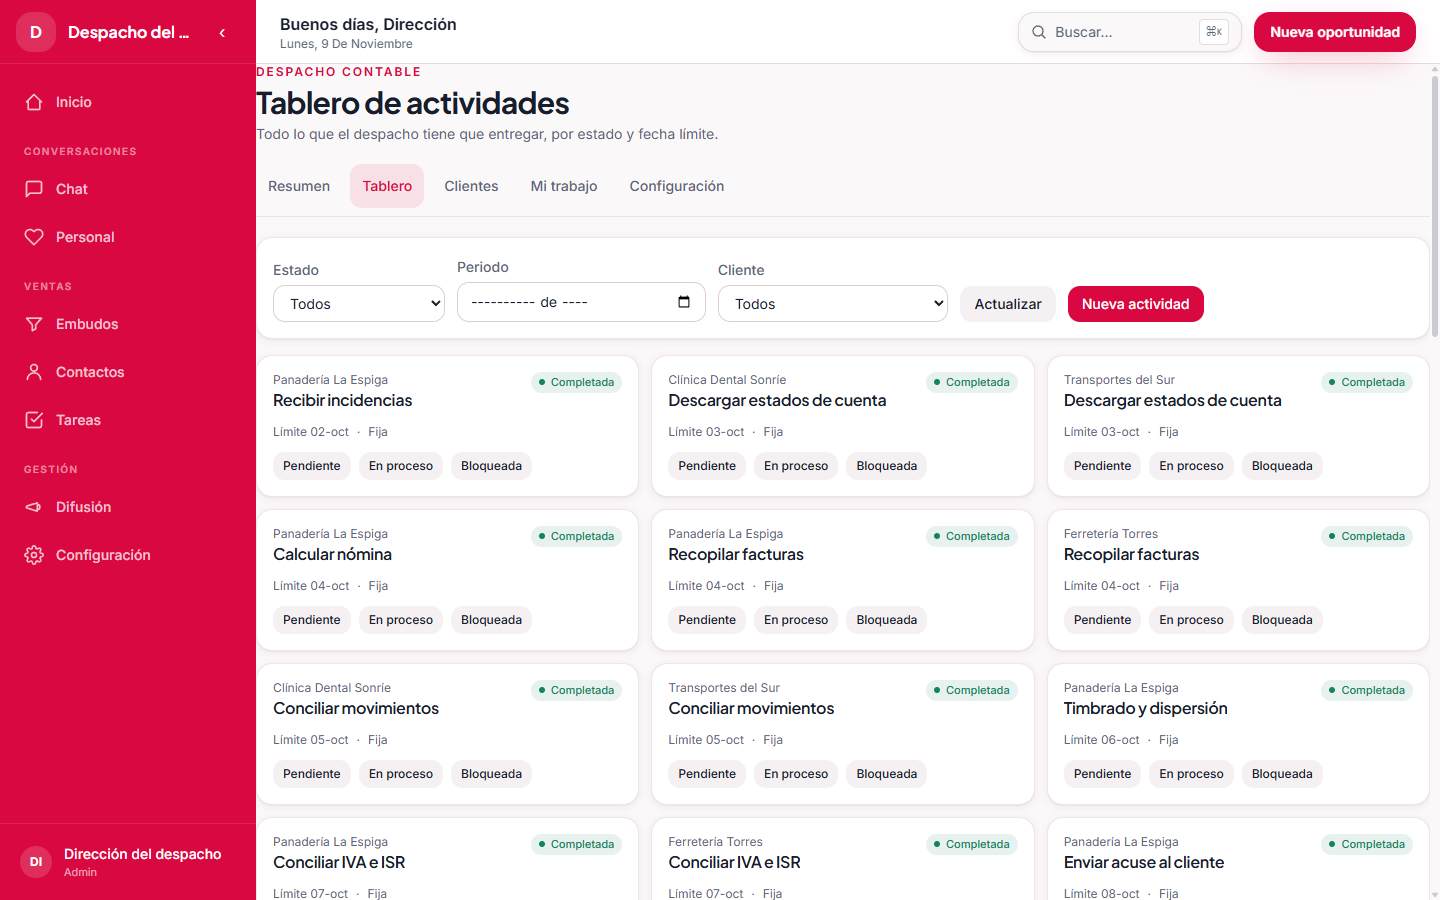
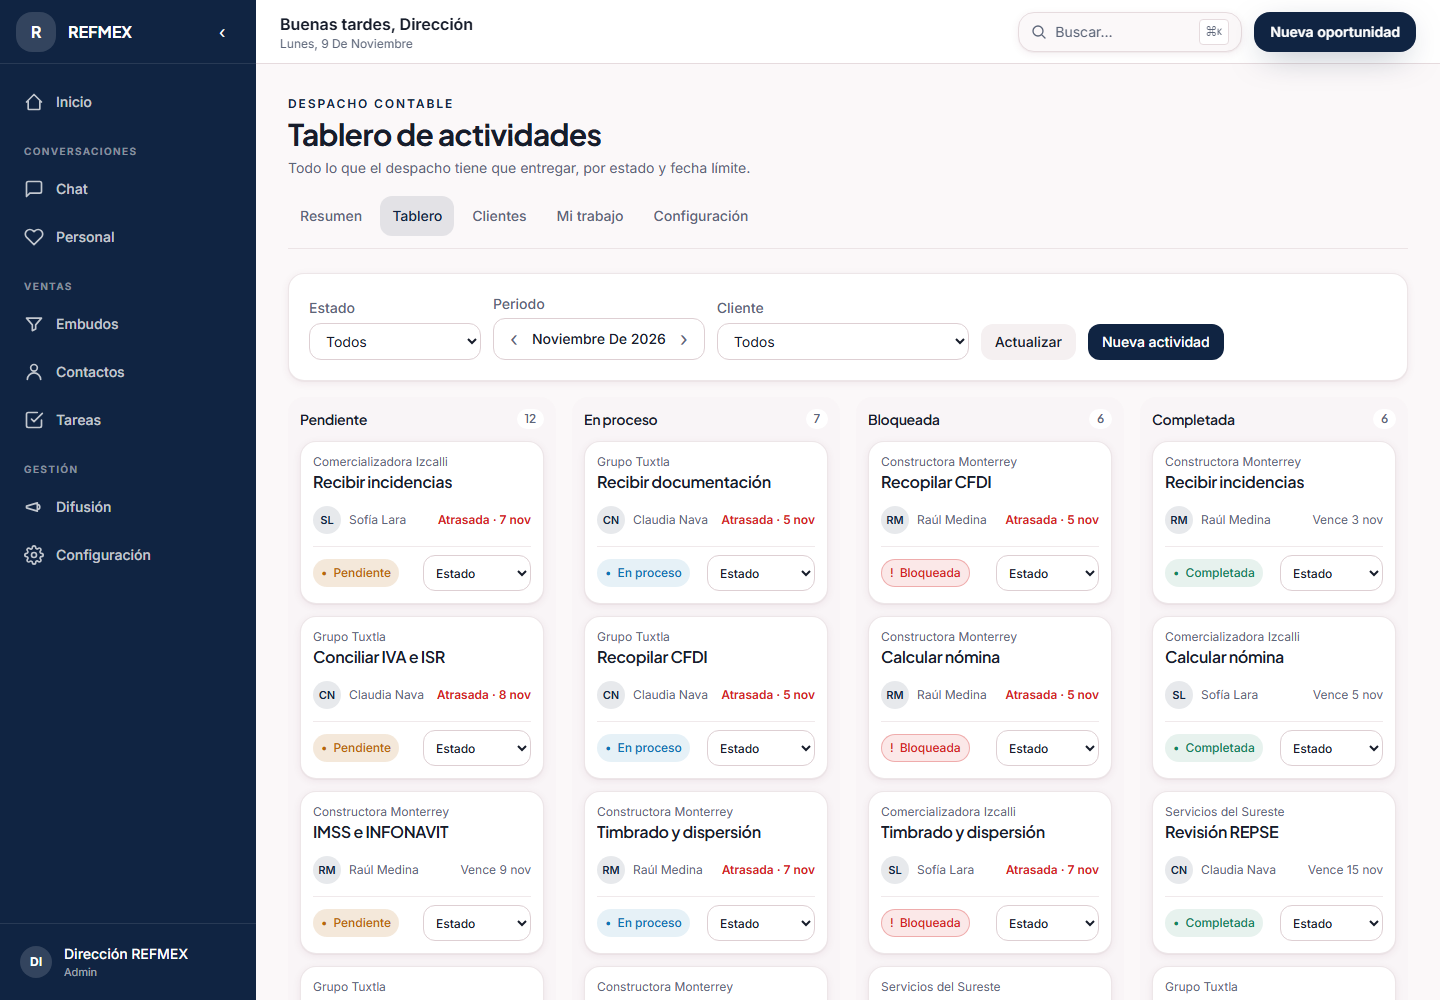
style(despacho,contenido): columna Bloqueada, horas locales en seed y capturas

diff --git a/web/src/components/despacho/DespachoActividades.tsx b/web/src/components/despacho/DespachoActividades.tsx
@@ -20,7 +20,7 @@ const ETIQUETAS: Record<string, string> = {
 const COLUMNAS = [
   { estado: "pendiente", titulo: "Pendiente" },
   { estado: "en_proceso", titulo: "En proceso" },
-  { estado: "bloqueada", titulo: "En revisión" },
+  { estado: "bloqueada", titulo: "Bloqueada" },
   { estado: "completada", titulo: "Completada" },
 ];
 
@@ -159,14 +159,13 @@ export function DespachoActividades({
                     <p className="truncate text-xs text-muted-foreground">{actividad.cliente.contacto.empresa ?? actividad.cliente.contacto.nombre}</p>
                     <h3 className="truncate font-semibold text-foreground">{actividad.titulo}</h3>
                   </div>
-                  {actividad.estado === "bloqueada" && <Badge tono="warning" className="min-h-7 px-2 text-xs">Bloqueada</Badge>}
                 </div>
                 <div className="flex items-center justify-between gap-2 text-xs text-muted-foreground">
                   <span className="flex min-w-0 items-center gap-2"><span className="grid h-7 w-7 shrink-0 place-items-center rounded-full bg-primary/10 text-[11px] font-semibold text-primary" title={responsable} aria-label={`Responsable: ${responsable}`}>{avatar(responsable)}</span><span className="truncate">{responsable}</span></span>
                   <span className={atrasada ? "shrink-0 font-semibold text-destructive" : "shrink-0"}>{atrasada ? "Atrasada · " : "Vence "}{fechaCorta(actividad.fechaLimite)}</span>
                 </div>
                 {actividad.notas && <p className="line-clamp-2 text-xs text-muted-foreground">{actividad.notas}</p>}
-                <div className="flex items-center justify-between gap-2 border-t border-border/60 pt-2"><Badge tono={tonoEstado(actividad.estado)} className="min-h-7 px-2 text-xs">{ETIQUETAS[actividad.estado] ?? actividad.estado}</Badge>{puede && siguientes.length > 0 && <select aria-label={`Cambiar estado de ${actividad.titulo}`} value={actividad.estado} onChange={(e) => void cambiar(actividad, e.target.value)} className="min-h-9 max-w-36 rounded-lg border border-input bg-card px-2 text-xs font-medium text-foreground focus-visible:outline-none focus-visible:ring-2 focus-visible:ring-primary">{[actividad.estado, ...siguientes].map((siguiente) => <option key={siguiente} value={siguiente}>{siguiente === actividad.estado ? "Estado" : ETIQUETAS[siguiente]}</option>)}</select>}</div>
+                <div className="flex items-center justify-between gap-2 border-t border-border/60 pt-2"><Badge tono={actividad.estado === "bloqueada" ? "destructive" : tonoEstado(actividad.estado)} className={`min-h-7 px-2 text-xs ${actividad.estado === "bloqueada" ? "border border-destructive/30 bg-destructive/10 text-destructive" : ""}`}><span aria-hidden="true">{actividad.estado === "bloqueada" ? "!" : "•"}</span>{ETIQUETAS[actividad.estado] ?? actividad.estado}</Badge>{puede && siguientes.length > 0 && <select aria-label={`Cambiar estado de ${actividad.titulo}`} value={actividad.estado} onChange={(e) => void cambiar(actividad, e.target.value)} className="min-h-9 max-w-36 rounded-lg border border-input bg-card px-2 text-xs font-medium text-foreground focus-visible:outline-none focus-visible:ring-2 focus-visible:ring-primary">{[actividad.estado, ...siguientes].map((siguiente) => <option key={siguiente} value={siguiente}>{siguiente === actividad.estado ? "Estado" : ETIQUETAS[siguiente]}</option>)}</select>}</div>
               </article>
             );
               })}
@@ -174,7 +173,7 @@ export function DespachoActividades({
             </section>;
           })}
         </div>
-        <div className="space-y-2 md:hidden">{COLUMNAS.map((columna) => { const delEstado = actividadesDelPeriodo.filter((actividad) => actividad.estado === columna.estado); return <details key={`movil-${columna.estado}`} className="surface group"><summary className="flex min-h-12 cursor-pointer list-none items-center justify-between px-4 font-semibold text-foreground focus-visible:outline-none focus-visible:ring-2 focus-visible:ring-primary">{columna.titulo}<span className="text-sm text-muted-foreground">{delEstado.length}</span></summary><div className="space-y-3 p-3 pt-0">{delEstado.length ? delEstado.map((actividad) => { const atrasada = estaAtrasada(actividad); const responsable = usuarios.find((usuario) => usuario.id === actividad.responsableId)?.nombre ?? "Sin asignar"; const siguientes = ESTADOS_DESPACHO.filter((valor) => valor !== actividad.estado && transicionDespachoValida(actividad.estado, valor)); return <article key={actividad.id} className={`surface space-y-3 p-3 ${atrasada ? "border-destructive/50" : ""}`}><div><p className="text-xs text-muted-foreground">{actividad.cliente.contacto.empresa ?? actividad.cliente.contacto.nombre}</p><h3 className="font-semibold text-foreground">{actividad.titulo}</h3></div><div className="flex items-center justify-between text-xs"><span>{avatar(responsable)} · {responsable}</span><span className={atrasada ? "font-semibold text-destructive" : "text-muted-foreground"}>{atrasada ? "Atrasada · " : "Vence "}{fechaCorta(actividad.fechaLimite)}</span></div><div className="flex items-center justify-between"><Badge tono={tonoEstado(actividad.estado)}>{ETIQUETAS[actividad.estado]}</Badge>{(esGestion || modo === "mias") && siguientes.length > 0 && <select aria-label={`Cambiar estado de ${actividad.titulo}`} value={actividad.estado} onChange={(e) => void cambiar(actividad, e.target.value)} className="min-h-9 rounded-lg border border-input bg-card px-2 text-xs text-foreground">{[actividad.estado, ...siguientes].map((siguiente) => <option key={siguiente} value={siguiente}>{siguiente === actividad.estado ? "Estado" : ETIQUETAS[siguiente]}</option>)}</select>}</div></article>; }) : <p className="pb-3 text-center text-xs text-muted-foreground">Sin actividades</p>}</div></details>; })}</div>
+        <div className="space-y-2 md:hidden">{COLUMNAS.map((columna) => { const delEstado = actividadesDelPeriodo.filter((actividad) => actividad.estado === columna.estado); return <details key={`movil-${columna.estado}`} className="surface group"><summary className="flex min-h-12 cursor-pointer list-none items-center justify-between px-4 font-semibold text-foreground focus-visible:outline-none focus-visible:ring-2 focus-visible:ring-primary">{columna.titulo}<span className="text-sm text-muted-foreground">{delEstado.length}</span></summary><div className="space-y-3 p-3 pt-0">{delEstado.length ? delEstado.map((actividad) => { const atrasada = estaAtrasada(actividad); const responsable = usuarios.find((usuario) => usuario.id === actividad.responsableId)?.nombre ?? "Sin asignar"; const siguientes = ESTADOS_DESPACHO.filter((valor) => valor !== actividad.estado && transicionDespachoValida(actividad.estado, valor)); return <article key={actividad.id} className={`surface space-y-3 p-3 ${atrasada ? "border-destructive/50" : ""}`}><div><p className="text-xs text-muted-foreground">{actividad.cliente.contacto.empresa ?? actividad.cliente.contacto.nombre}</p><h3 className="font-semibold text-foreground">{actividad.titulo}</h3></div><div className="flex items-center justify-between text-xs"><span>{avatar(responsable)} · {responsable}</span><span className={atrasada ? "font-semibold text-destructive" : "text-muted-foreground"}>{atrasada ? "Atrasada · " : "Vence "}{fechaCorta(actividad.fechaLimite)}</span></div><div className="flex items-center justify-between"><Badge tono={actividad.estado === "bloqueada" ? "destructive" : tonoEstado(actividad.estado)} className={actividad.estado === "bloqueada" ? "border border-destructive/30 bg-destructive/10 text-destructive" : ""}><span aria-hidden="true">{actividad.estado === "bloqueada" ? "!" : "•"}</span>{ETIQUETAS[actividad.estado]}</Badge>{(esGestion || modo === "mias") && siguientes.length > 0 && <select aria-label={`Cambiar estado de ${actividad.titulo}`} value={actividad.estado} onChange={(e) => void cambiar(actividad, e.target.value)} className="min-h-9 rounded-lg border border-input bg-card px-2 text-xs text-foreground">{[actividad.estado, ...siguientes].map((siguiente) => <option key={siguiente} value={siguiente}>{siguiente === actividad.estado ? "Estado" : ETIQUETAS[siguiente]}</option>)}</select>}</div></article>; }) : <p className="pb-3 text-center text-xs text-muted-foreground">Sin actividades</p>}</div></details>; })}</div>
         </>
       )}
     </section>

diff --git a/docs/prompts/PROMPT-PULIDO-VISUAL-DESPACHO-CONTENIDO.md b/docs/prompts/PROMPT-PULIDO-VISUAL-DESPACHO-CONTENIDO.md
@@ -1,0 +1,80 @@
+# Prompt para OpenCode — pulido visual de Despacho y Contenido (demo REFMEX)
+
+> Revisión hecha el 9-nov-2026 sobre la demo viva (`/login?org=refmex`) a 1568 px de ancho.
+> Solo toca UI/UX y presentación; **no cambies reglas de negocio, API, esquema ni permisos**.
+> Copia desde "## Prompt".
+
+## Prompt
+
+Trabajas en AmbarCRM (`web/`), rama `modulos-despacho-contenido`. Lee `web/DESIGN.md`, los
+componentes de `components/despacho/*` y `components/contenido/*`, y `components/taller/TallerVisuales.tsx`
+(es el nivel visual de referencia). Mantén tokens, claro/oscuro y 375/1440 px sin desbordes.
+Sin dependencias nuevas. Sin push ni deploy. Commits `style(despacho): …` / `style(contenido): …`.
+
+### Despacho
+
+1. **Resumen sin protagonista.** El 19 % global es solo un KPI más. Conviértelo en el héroe: anillo
+   (SVG simple, sin librería) grande a la izquierda con el % global y "x de y actividades", y a su
+   lado los otros tres KPI (clientes, atrasadas, por vencer en 3 días). Agrega selector de periodo
+   con flechas ‹ noviembre 2026 ›.
+2. **Color con lógica única.** Hoy "Avance por cliente" es todo rojo (incluso 29 %) y "Carga por
+   responsable" todo azul. Usa una sola regla en `despacho.ts` (verde ≥ 80, ámbar 40–79, rojo < 40
+   **o** con atrasadas) para clientes y personas, siempre con texto además del color. Si el mes va
+   a medias, considera comparar contra el avance esperado a la fecha en vez de pintar todo rojo.
+3. **Atrasadas.** Fechas ISO (`2026-11-05`) → "5 nov" con "hace 4 días" en rojo. Agrega columna del
+   responsable (avatar) y chip de estado legible (más grande, contraste AA). Máximo 5 filas con
+   "Ver todas".
+4. **Tablero no es tablero.** Hoy es una cuadrícula de tarjetas gigantes con las tres botones de
+   estado repetidos en cada una, mezcla actividades completadas de octubre y el filtro de periodo
+   es un `input month` nativo vacío. Rehazlo como columnas reales: Pendiente · En proceso · En
+   revisión · Completada, con bloqueada marcada en la tarjeta. Periodo = mes actual por defecto
+   (completadas del mes). Tarjeta compacta: cliente, actividad, avatar del responsable, fecha
+   límite ("vence 8 nov", rojo si atrasada). Cambio de estado con un menú en la tarjeta (no tres
+   botones fijos). En móvil: columnas colapsables apiladas. Fechas siempre con día y mes
+   ("2 oct"), nunca "Límite 02-oct" ambiguo.
+5. **Clientes.** Tarjetas pobres: agrega barra de avance del mes, responsable (avatar) y atrasadas;
+   quita el nombre repetido (nombre y razón social iguales) y haz clicable toda la tarjeta en vez
+   de "Abrir ficha". Ordenar por atrasadas/avance.
+6. **Ritmo y márgenes.** Alinea el contenido a un contenedor consistente (mismo ancho máximo y
+   padding que Taller), un mismo espacio vertical entre bloques (8/16/24), y revisa que título,
+   pestañas y filtros compartan el mismo borde izquierdo.
+
+### Contenido
+
+1. **Semana.** Hoy son 3 columnas y los días de la semana se parten en dos filas. Usa 7 columnas
+   en escritorio ancho (≥ 1280 px) con scroll interno controlado, o una fila por día en pantallas
+   medianas; en móvil lista por día. Encabezado "Lunes 9" (hoy "Lunes 11–09"), el día actual
+   resaltado, días vacíos con estado vacío discreto ("Sin publicaciones" + botón "+").
+2. **Horas incorrectas (posible bug).** Las piezas muestran "9 nov 2026, 3:00 a.m.", "2:00 a.m.",
+   "4:00 a.m." Parece desfase de zona horaria (UTC vs America/Mexico_City) o seed con horas raras.
+   Investiga: si es de presentación, corrige con `timeZone: "America/Mexico_City"` explícito; si es
+   del seed, usa horas de publicación realistas (9:00, 13:00, 18:00). Informa qué era.
+3. **Tarjeta.** Distingue canal con icono y color de marca discreto (no solo texto "Instagram ·
+   Carrusel"), hora en negrita, estado como chip con icono. Separa visualmente Publicado
+   (atenuado con ✓), Programado, Por revisar y Cambios solicitados. Texto mínimo 12 px y contraste
+   AA en los grises secundarios (hoy ~11 px y claros).
+4. **Resumen de la semana.** "Semana · 12 pieza(s) · 3 por revisar" está perdido a la derecha en
+   texto diminuto. Pásalo a chips arriba: "5 publicadas · 3 programadas · 3 por revisar".
+5. **Filtros.** `input date` nativo para la semana → flechas ‹ 9–15 nov › y botón "Hoy". Un solo
+   botón "Nueva pieza"; evita duplicarlo con el de "Nueva oportunidad" global (el módulo no debe
+   verse como parte de oportunidades: si el botón global es de AppShell, déjalo, pero que el
+   primario de la página destaque).
+6. **Revisión.** Al abrir la pieza, copy a la izquierda y comentarios a la derecha (ya definido);
+   en la lista agrega el tiempo que lleva esperando revisión y ordena por fecha de publicación.
+
+### Transversal
+
+- Estados vacíos con ilustración sencilla/ícono y acción siguiente; skeletons que respeten el
+  layout final.
+- Foco visible, `aria-label` en iconos, navegación por teclado en el menú de estado y las
+  tarjetas.
+- Los chips de estado usan fondo + texto + icono, nunca solo color.
+- Revisa a 375, 768 y 1440 px, claro y oscuro. Genera capturas nuevas en
+  `docs/capturas-despacho/` y `docs/capturas-contenido/` (sobrescribe las anteriores) y revísalas
+  tú mismo.
+
+### Entregable
+
+Lista de cambios por pantalla, qué era el desfase de horas, capturas nuevas, y salida de `tsc`,
+lint y los `check-*` de ambos módulos. Si algo exige cambiar datos o lógica, **no lo hagas**:
+anótalo como sugerencia.
